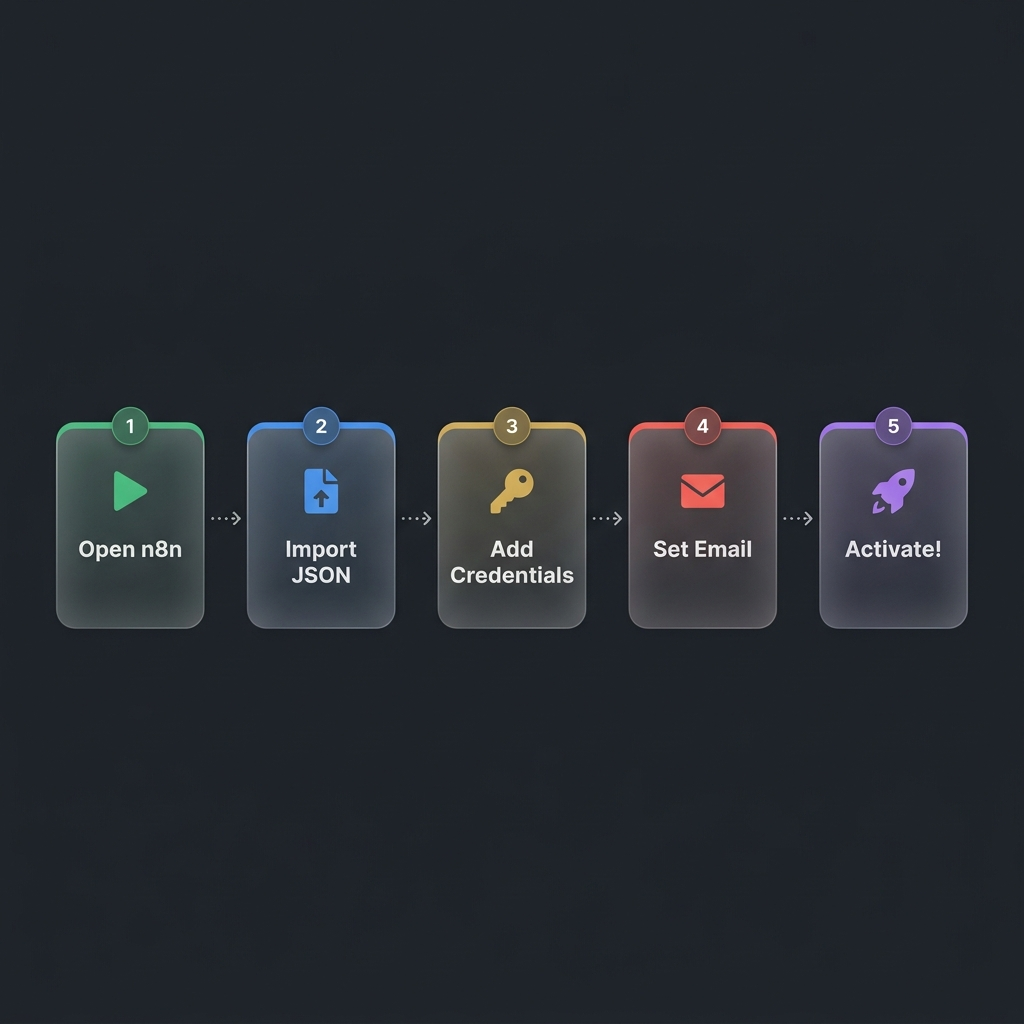
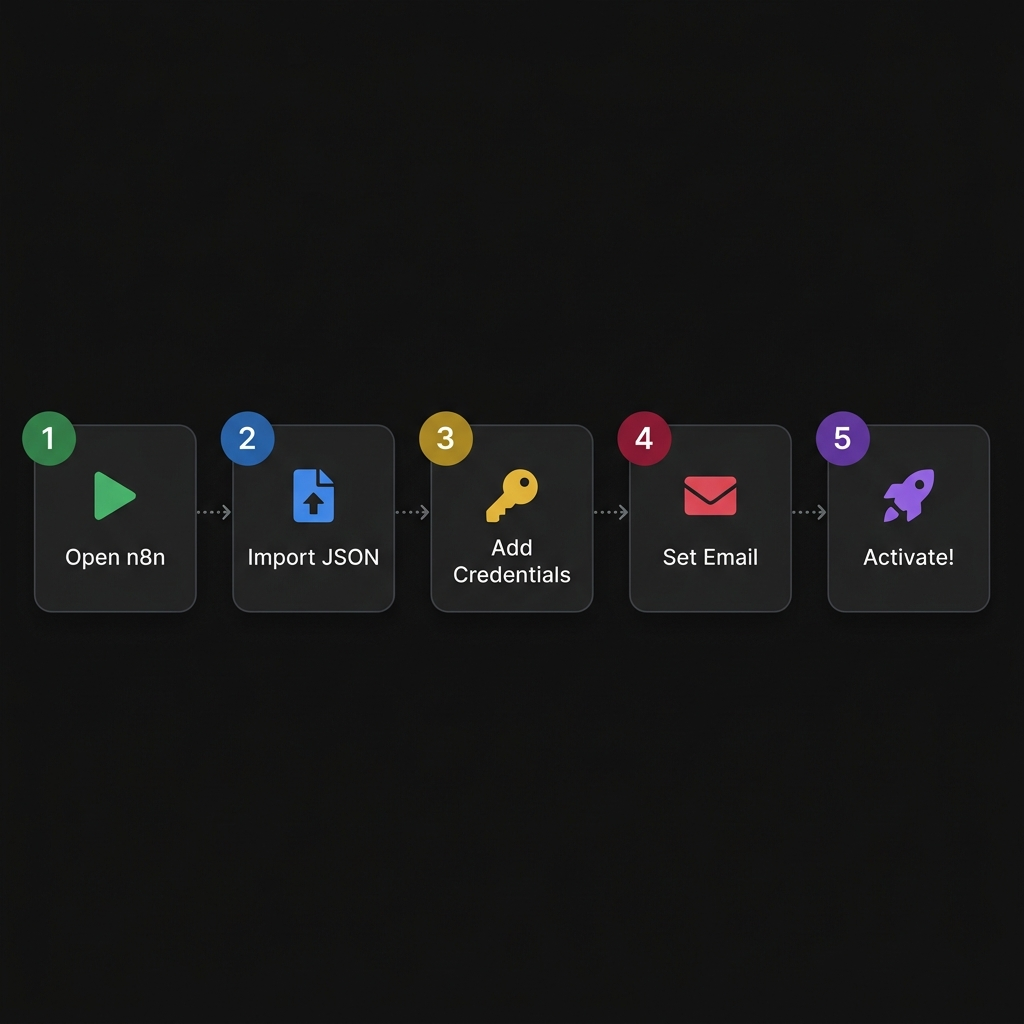
docs: all files updated correctly - new pencil sketch diagrams and improved README

diff --git a/README.md b/README.md
@@ -1,6 +1,16 @@
 # 🤖 Daily GenAI & Agentic AI Career Briefing
 
-An automated news aggregation and synthesis pipeline built in **n8n** that collects, filters, and summarizes the latest Generative AI and Agentic AI news every morning, delivering a structured career briefing directly to your email inbox.
+> An automated **n8n** pipeline that wakes up every morning, scrapes the latest GenAI & Agentic AI news from two live sources, deduplicates them using stateful memory, lets **Google Gemini** extract a structured JSON briefing, and delivers a beautiful HTML email digest directly to your Gmail inbox — **zero clicks required**.
+
+<div align="center">
+
+![n8n](https://img.shields.io/badge/n8n-FF6D5A?style=for-the-badge&logo=n8n&logoColor=white)
+![Google Gemini](https://img.shields.io/badge/Google%20Gemini-4285F4?style=for-the-badge&logo=googlegemini&logoColor=white)
+![Gmail API](https://img.shields.io/badge/Gmail%20API-EA4335?style=for-the-badge&logo=gmail&logoColor=white)
+![Workflow Automation](https://img.shields.io/badge/Workflow%20Automation-6366F1?style=for-the-badge)
+![No Code](https://img.shields.io/badge/No--Code-8B5CF6?style=for-the-badge)
+
+</div>
 
 ---
 
@@ -10,28 +20,55 @@ An automated news aggregation and synthesis pipeline built in **n8n** that colle
 
 ![How It Works](assets/how_it_works_sketch.png)
 
-*↑ End-to-end 5-step automation pipeline*
+*↑ End-to-end 6-step automation pipeline — pencil sketch overview*
 
 </div>
 
-The pipeline runs automatically every day using the following sequential steps:
+The workflow runs automatically every day via a **cron schedule**. Here's what happens under the hood:
 
-1. **Trigger**: The automation starts at **8:00 AM** daily.
-2. **Collect**: Feeds from **Google News RSS** and **Hacker News API** are crawled in parallel.
-3. **Filter**: The stories are merged, deduplicated via stateful storage, and filtered for the top 15 freshest stories.
-4. **AI Parser**: Google Gemini (`gemini-3.1-flash-lite`) analyzes the headlines and extracts a **Structured JSON Schema** containing Market Sentiment, Top News, Tools, and Skills.
-5. **Template**: A custom JavaScript Code Node parses the JSON and compiles it into a beautifully styled HTML template.
-6. **Deliver**: The final HTML digest is dispatched securely to your Gmail inbox.
+| Step | Node | What It Does |
+|:----:|:-----|:-------------|
+| **1** | `Daily Trigger (Cron)` | Fires at **8:00 AM** daily. Two parallel triggers kick off the Google News and Hacker News branches simultaneously. |
+| **2** | `Fetch Google News RSS` | Hits Google News RSS with a targeted query: `"agentic AI" OR "generative AI" OR "AI agent" OR "AI tool" OR "AI regulation"` |
+| **2** | `Fetch Hacker News` | Calls the **Hacker News Algolia API** (`search_by_date?query=AI agent`) to pull the 20 most recent stories. |
+| **3** | `Combine → Dedupe & Filter` | Merges both feeds. A custom JavaScript node checks **workflow static data** to skip already-seen URLs, filters to the last 24 hours, sorts by recency, and keeps the **top 15 freshest** articles. |
+| **4** | `Has New Items?` | A gatekeeping filter node. If `count == 0`, the workflow **stops immediately** — no blank emails sent. |
+| **5** | `Build Career Briefing (Gemini)` | Feeds the 15 headlines into **`gemini-3.1-flash-lite`** with a strict structured JSON prompt. Extracts: Market Sentiment, Top News + Impact, Models & Tools, Skills to Learn, Industry Impact. |
+| **6** | `Format HTML Email` | A JavaScript Code Node parses the JSON and compiles a clean, fully-styled HTML email template. |
+| **7** | `Send Email Digest` | Dispatches the HTML email via **Gmail OAuth SMTP** to your inbox. |
 
 ---
 
 ## 🧠 AI Engineering Highlights
 
-This project was designed to demonstrate production-grade AI engineering patterns beyond simple prompting:
+This project demonstrates production-grade AI engineering patterns beyond simple prompting:
 
-*   **Structured LLM Outputs (JSON)**: Instead of relying on fragile free-text generation, the Gemini LLM is constrained to output a strict JSON schema containing arrays and nested objects. This ensures reliable data extraction.
-*   **Separation of Concerns**: AI processing is strictly separated from presentation logic. The LLM only handles data extraction, while a downstream JavaScript Node handles the HTML UI templating.
-*   **Market Sentiment Analysis**: The workflow doesn't just summarize; it uses the LLM as an analytical engine to grade the overall tone of the industry (e.g., Bullish or Bearish) based on the latest headlines.
+### ✅ Structured LLM Outputs (JSON Schema Enforcement)
+Instead of relying on fragile free-text generation, Gemini is constrained via a **strict JSON schema prompt**. The output schema is enforced at the prompt level:
+```json
+{
+  "sentiment":       { "score": "Bullish | Bearish | Neutral", "reason": "..." },
+  "top_news":        [{ "headline": "...", "impact": "..." }],
+  "models_tools":    ["tool1", "tool2"],
+  "skills":          [{ "skill": "...", "reason": "..." }],
+  "industry_impact": "..."
+}
+```
+A downstream JavaScript node strips any leaked markdown fences and `JSON.parse()`s safely.
+
+### ✅ Stateful Deduplication via Workflow Memory
+The deduplication node uses **`$getWorkflowStaticData('global')`** — n8n's built-in stateful storage — to maintain a rolling list of up to 500 sent article URLs across runs. This means you **never receive the same article twice**, even across multiple days.
+
+### ✅ Separation of Concerns
+AI processing is strictly separated from presentation logic:
+- 🤖 **LLM** → handles only data extraction
+- 🖥 **JS Code Node** → handles all HTML templating
+
+### ✅ Gatekeeping Filter (No Blank Emails)
+Before invoking Gemini, the workflow checks `count > 0`. If there are no fresh articles (e.g., a weekend with low news volume), execution stops and **no API calls are made**.
+
+### ✅ Market Sentiment Analysis
+The AI is used as an **analytical engine** to grade the overall tone of today's AI news as `Bullish`, `Bearish`, or `Neutral`, with a one-sentence rationale.
 
 ---
 
@@ -41,56 +78,119 @@ This project was designed to demonstrate production-grade AI engineering pattern
 
 ![System Architecture](assets/architecture_sketch.png)
 
-*↑ Logical node routing, decision branching, and filters*
+*↑ Node routing, parallel fetch branches, decision gatekeeping, and AI synthesis — pencil sketch*
 
 </div>
 
-### Technical Highlights
+### Node Map
 
-*   **Stateful Deduplication**: A custom JavaScript block interacts with n8n workflow static metadata to track historically processed links, ensuring you never receive duplicate articles across days.
-*   **Gatekeeping Filter**: Prior to generating the briefing, the workflow counts the number of fresh articles. If no new posts are available, the execution stops, preventing blank emails.
-*   **Gemini AI Engine**: Utilizes `gemini-3.1-flash-lite` to draft the HTML-formatted sections, maintaining high execution speed while minimizing API resource usage.
-*   **Gmail SMTP Integration**: Integrates directly with Google's OAuth protocol to securely authenticate and dispatch emails.
+```
+[Daily Trigger - News] ──→ [Fetch Google News RSS] ──┐
+                                                       ├──→ [Combine News Sources]
+[Daily Trigger - HN]   ──→ [Fetch Hacker News]  ──→  │
+                              [Split HN Hits]   ──────┘
+                                                       ↓
+                                          [Dedupe, Filter & Build Digest]
+                                                       ↓
+                                            [Has New Items? (Filter)]
+                                                       ↓ YES
+                                          [Build Career Briefing]  ←── [Gemini Model]
+                                                       ↓
+                                          [Format HTML Email (JS)]
+                                                       ↓
+                                           [Send Email Digest (Gmail)]
+```
+
+---
+
+## 📧 What the Email Looks Like
+
+The delivered HTML email contains 5 structured sections:
+
+| Section | Content |
+|:--------|:--------|
+| **Market Sentiment** | `Bullish / Bearish / Neutral` + one-line rationale |
+| **🔥 Top News Today** | Up to 5 headlines with `impact` summary per article |
+| **🤖 New Models & Tools** | Extracted tool names mentioned in today's news |
+| **🛠 Skills to Improve** | Recommended skills with context on why they're trending |
+| **💼 Industry Impact** | 2-3 sentence analysis of what this means for engineering roles |
 
 ---
 
 ## ⚡ Quick Start & Import
 
-You can launch this exact workflow in your own n8n instance in a few simple steps.
+<div align="center">
 
-### Step 1: Import Workflow File
-*   Download [genai-daily-career-briefing.json](genai-daily-career-briefing.json).
-*   Open n8n, click the **`+`** icon on the top-left, select **Import from File**, and upload the `.json` file.
+![Setup Steps](assets/setup_steps.png)
 
-### Step 2: Set Credentials
-Locate the setup nodes inside n8n to connect your accounts:
-*   **Gemini Model**: Paste your Gemini API key from [Google AI Studio](https://aistudio.google.com/apikey).
-*   **Send Email Digest**: Sign in using Google OAuth credentials for your Gmail mailbox.
+*↑ 4-step setup — up and running in under 5 minutes*
 
-### Step 3: Configure Recipient
-*   Open the **Send Email Digest** node settings.
-*   Change the target email in the `sendTo` field from `YOUR_EMAIL@gmail.com` to **your personal email address**.
+</div>
 
-### Step 4: Turn It On!
-*   Toggle the switch in the top-right corner to **Active** to schedule the automated daily briefings.
-*   *Optional:* Click **Execute Workflow** at the bottom of the canvas to run a test execution immediately.
+### Step 1: Get n8n Running
+
+**Option A — Docker (Recommended)**
+```bash
+# Copy environment template
+cp .env.example .env
+# Fill in your values in .env, then:
+docker compose up -d
+# Open: http://localhost:5678
+```
+
+**Option B — n8n Cloud**
+Sign up at [n8n.io](https://n8n.io) and use the cloud editor directly.
+
+---
+
+### Step 2: Import the Workflow
+1. Download [`genai-daily-career-briefing.json`](genai-daily-career-briefing.json)
+2. In n8n, click **`+`** (top-left) → **Import from File**
+3. Upload the `.json` file
+
+---
+
+### Step 3: Set Credentials
+
+You need to configure **2 credentials** inside n8n:
+
+**Gemini API Key**
+- Go to [Google AI Studio](https://aistudio.google.com/apikey) → Create API Key
+- In n8n: open the **`Gemini Model`** node → paste your key
+
+**Gmail OAuth**
+- Set up a Google Cloud project and OAuth 2.0 credentials
+- Guide: [n8n Google OAuth docs](https://docs.n8n.io/integrations/builtin/credentials/google/oauth-single-service/)
+- In n8n: open **`Send Email Digest`** node → connect your Gmail account
+
+---
+
+### Step 4: Set Your Recipient Email
+- Open the **`Send Email Digest`** node
+- Change `YOUR_EMAIL@gmail.com` in the `sendTo` field to **your actual email**
+
+---
+
+### Step 5: Activate!
+- Toggle the workflow to **Active** (top-right switch)
+- *(Optional)* Click **Execute Workflow** to trigger an immediate test run
 
 ---
 
 ## 🔐 Configuration & Security
 
-Credentials and configuration parameters can be stored securely inside environment files to prevent accidental leakage:
+```bash
+# 1. Copy the template
+cp .env.example .env
 
-1. Copy the setup file template:
-   ```bash
-   cp .env.example .env
-   ```
-2. Open `.env` and fill in your values:
-   *   `GEMINI_API_KEY`: API access token.
-   *   `RECIPIENT_EMAIL`: Briefing destination address.
-   *   `GMAIL_CLIENT_ID` / `GMAIL_CLIENT_SECRET`: Google OAuth application credentials.
+# 2. Fill in your values
+GEMINI_API_KEY=your_gemini_api_key_here
+RECIPIENT_EMAIL=your_email@gmail.com
+GMAIL_CLIENT_ID=your_google_client_id_here
+GMAIL_CLIENT_SECRET=your_google_client_secret_here
+```
 
-*Note: The `.env` file is excluded from Git tracking via `.gitignore` to keep credentials completely local.*
+> ⚠ The `.env` file is excluded from Git via `.gitignore`. **Never commit real credentials.**
 
 ---
 
@@ -98,40 +198,91 @@ Credentials and configuration parameters can be stored securely inside environme
 
 ```text
 genai-n8n/
-├── assets/                          # Workflow diagrams
-│   ├── how_it_works_sketch.png     # Pencil sketch - Workflow steps
-│   └── architecture_sketch.png     # Whiteboard sketch - System architecture
-├── genai-daily-career-briefing.json # Complete n8n workflow file
-├── .env.example                     # Env variable template
-├── .gitignore                       # Ignored file list
-└── README.md                        # Documentation
+├── genai-daily-career-briefing.json   # ← Complete n8n workflow (import this)
+├── docker-compose.yml                 # Self-hosted n8n via Docker
+├── .env.example                       # Environment variable template
+├── .gitignore                         # Ignores .env and sensitive files
+├── README.md                          # This file
+└── assets/
+    ├── how_it_works_sketch.png        # Pipeline overview (pencil sketch)
+    ├── architecture_sketch.png        # System architecture (pencil sketch)
+    ├── setup_steps.png                # Quick start visual (pencil sketch)
+    ├── future_roadmap.png             # Roadmap diagram (pencil sketch)
+    ├── email_preview.png              # Sample email output screenshot
+    └── hero_banner.png                # Project banner image
 ```
 
 ---
 
 ## 🏷 Project Tags
 
-<br/>
-
 <div align="center">
 
 | Area | Tags |
 | :--- | :--- |
-| **Automation** | ![n8n](https://img.shields.io/badge/n8n-FF6D5A?style=flat-square&logo=n8n&logoColor=white) ![n8n Workflow](https://img.shields.io/badge/n8n--workflow-FF6D5A?style=flat-square&logo=n8n&logoColor=white) ![Workflow Automation](https://img.shields.io/badge/Workflow--Automation-6366F1?style=flat-square) ![Email Automation](https://img.shields.io/badge/Email--Automation-6366F1?style=flat-square) |
-| **Artificial Intelligence** | ![Generative AI](https://img.shields.io/badge/Generative--AI-4285F4?style=flat-square&logo=google&logoColor=white) ![Agentic AI](https://img.shields.io/badge/Agentic--AI-4285F4?style=flat-square&logo=google&logoColor=white) ![Google Gemini](https://img.shields.io/badge/Google--Gemini-4285F4?style=flat-square&logo=googlegemini&logoColor=white) ![LLM](https://img.shields.io/badge/LLM-3b82f6?style=flat-square) ![AI Agent](https://img.shields.io/badge/AI--Agent-3b82f6?style=flat-square) |
-| **Integrations** | ![Gmail API](https://img.shields.io/badge/Gmail--API-EA4335?style=flat-square&logo=gmail&logoColor=white) ![Hacker News API](https://img.shields.io/badge/Hacker--News--API-FF6600?style=flat-square&logo=ycombinator&logoColor=white) ![Google News](https://img.shields.io/badge/Google--News-4285F4?style=flat-square&logo=googlenews&logoColor=white) ![RSS Feed](https://img.shields.io/badge/RSS--Feed-FFA500?style=flat-square&logo=rss&logoColor=white) |
-| **Career & Education** | ![Career Development](https://img.shields.io/badge/Career--Development-10B981?style=flat-square) ![AI Career](https://img.shields.io/badge/AI--Career-10B981?style=flat-square) ![Daily Briefing](https://img.shields.io/badge/Daily--Briefing-10B981?style=flat-square) |
-| **Development Style** | ![No Code](https://img.shields.io/badge/No--Code-8B5CF6?style=flat-square) ![Low Code](https://img.shields.io/badge/Low--Code-8B5CF6?style=flat-square) |
+| **Automation** | ![n8n](https://img.shields.io/badge/n8n-FF6D5A?style=flat-square&logo=n8n&logoColor=white) ![Workflow Automation](https://img.shields.io/badge/Workflow--Automation-6366F1?style=flat-square) ![Email Automation](https://img.shields.io/badge/Email--Automation-6366F1?style=flat-square) |
+| **Artificial Intelligence** | ![Generative AI](https://img.shields.io/badge/Generative--AI-4285F4?style=flat-square&logo=google&logoColor=white) ![Agentic AI](https://img.shields.io/badge/Agentic--AI-4285F4?style=flat-square&logo=google&logoColor=white) ![Google Gemini](https://img.shields.io/badge/Google--Gemini-4285F4?style=flat-square&logo=googlegemini&logoColor=white) ![LLM](https://img.shields.io/badge/LLM-3b82f6?style=flat-square) |
+| **Integrations** | ![Gmail API](https://img.shields.io/badge/Gmail--API-EA4335?style=flat-square&logo=gmail&logoColor=white) ![Hacker News](https://img.shields.io/badge/Hacker--News--API-FF6600?style=flat-square&logo=ycombinator&logoColor=white) ![Google News](https://img.shields.io/badge/Google--News-4285F4?style=flat-square&logo=googlenews&logoColor=white) ![RSS Feed](https://img.shields.io/badge/RSS--Feed-FFA500?style=flat-square&logo=rss&logoColor=white) |
+| **Career & Learning** | ![Career Development](https://img.shields.io/badge/Career--Development-10B981?style=flat-square) ![AI Career](https://img.shields.io/badge/AI--Career-10B981?style=flat-square) ![Daily Briefing](https://img.shields.io/badge/Daily--Briefing-10B981?style=flat-square) |
+| **Dev Style** | ![No Code](https://img.shields.io/badge/No--Code-8B5CF6?style=flat-square) ![Low Code](https://img.shields.io/badge/Low--Code-8B5CF6?style=flat-square) ![Docker](https://img.shields.io/badge/Docker-2496ED?style=flat-square&logo=docker&logoColor=white) |
 
 </div>
 
-<br/>
+---
 
+## 🚀 Future Improvements
 
-## ?? Future Roadmap
+<div align="center">
 
-While this is a minor portfolio project demonstrating core AI integration concepts, there are several ways it can be expanded in the future:
-*   **Vector Database Integration (RAG):** Connect to Pinecone or Qdrant to store historical articles, allowing the AI to reference past context and detect long-term industry trends.
-*   **Web Scraping Node:** Instead of relying just on RSS summaries, implement a Puppeteer/HTTP node to scrape the full article text before feeding it to Gemini for deeper analysis.
-*   **Multi-Agent Architecture:** Use advanced LangChain nodes to deploy a 'Researcher Agent' to fetch data and a 'Writer Agent' to draft the email, passing data between them.
+![Future Roadmap](assets/future_roadmap.png)
 
+*↑ Planned evolution from single-agent pipeline to full multi-agent system — pencil sketch*
+
+</div>
+
+### Phase 1 — Core Extensions
+
+| Improvement | Description |
+|:------------|:------------|
+| **🗄 Vector Database (RAG)** | Connect to **Pinecone** or **Qdrant** to store historical article embeddings. The LLM can then reference past context to detect long-term industry trends and avoid repeating insights from previous briefings. |
+| **🕷 Full Article Scraping** | Replace RSS summary text with a **Puppeteer / HTTP Request node** that fetches the full article body before passing it to Gemini — enabling much deeper, nuanced analysis instead of headline-only summaries. |
+| **📰 More News Sources** | Add **Dev.to**, **Towards Data Science**, **ArXiv AI abstracts**, or **LinkedIn Pulse** as additional RSS/API sources to broaden coverage. |
+
+### Phase 2 — Multi-Agent Architecture
+
+| Improvement | Description |
+|:------------|:------------|
+| **🔍 Researcher Agent** | Use n8n's **LangChain agent nodes** to deploy a dedicated Researcher Agent that autonomously decides which sources to query, ranks articles by relevance, and summarizes findings for the Writer. |
+| **✍ Writer Agent** | A separate Writer Agent receives the ranked research and drafts a personalized briefing with a consistent editorial voice — using memory of your past preferences. |
+| **✅ Editor / Fact-Check Agent** | A final verification agent that cross-references claims in the briefing against a trusted knowledge base before the email is dispatched. |
+
+### Phase 3 — Multi-Channel Delivery
+
+| Improvement | Description |
+|:------------|:------------|
+| **💬 Slack / Discord Bot** | Add a Webhook output node to push the briefing as a formatted message to your team's **Slack** or **Discord** channel every morning. |
+| **🎙 Audio Podcast Digest** | Pipe the briefing text through a **Text-to-Speech node** (ElevenLabs or Google TTS) to generate a short audio podcast you can listen to on your commute. |
+| **📊 Web Dashboard** | Build a lightweight **Next.js** frontend that reads briefing history from a database and visualizes sentiment trends, trending tools, and skill frequency over time. |
+| **🌍 Multi-Language Support** | Add a translation step after the AI parser to deliver the briefing in the user's preferred language using Gemini's translation capabilities. |
+| **📅 Weekly Summary** | Add a separate Saturday workflow that aggregates the week's 5 briefings into a single executive summary email with trend highlights. |
+
+---
+
+## 🤝 Contributing
+
+1. Fork the repository
+2. Create a feature branch: `git checkout -b feature/my-improvement`
+3. Commit your changes: `git commit -m "feat: add Slack delivery channel"`
+4. Push and open a Pull Request
+
+Feedback and workflow forks are welcome! If you add a new source or delivery channel, please share the `.json` workflow export.
+
+---
+
+<div align="center">
+
+**Built with ❤ using n8n + Google Gemini**
+
+*Star ⭐ the repo if this saves you time every morning!*
+
+</div>
